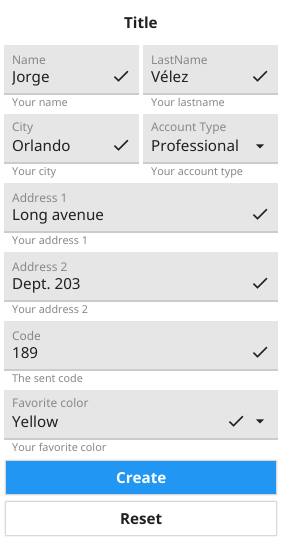
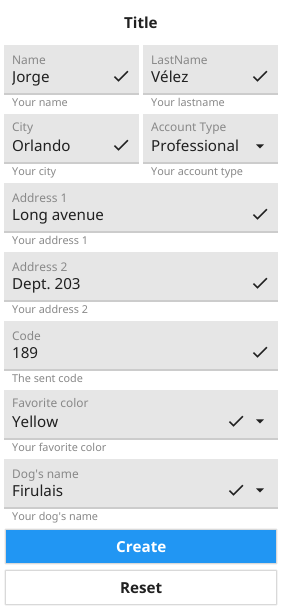
upgrade fyne version to the latest develop, fixed consistency when using empty validator, added and updated tests

diff --git a/swid/select_entry_form_field_test.go b/swid/select_entry_form_field_test.go
@@ -7,7 +7,9 @@ import (
 	"fyne.io/fyne/v2"
 	"fyne.io/fyne/v2/test"
 	"fyne.io/fyne/v2/theme"
+	"github.com/fpabl0/sparky-go/svalid"
 	"github.com/stretchr/testify/assert"
+	"github.com/stretchr/testify/require"
 )
 
 func TestSelectEntryFormField_EmptyValidator(t *testing.T) {
@@ -24,16 +26,21 @@ func TestSelectEntryFormField_EmptyValidator(t *testing.T) {
 	defer w.Close()
 	w.Resize(fyne.NewSize(120, 80))
 
-	test.AssertImageMatches(t, "select_entry_form_field/empty_validator_initial.png", w.Canvas().Capture())
+	for i := 0; i < 2; i++ {
+		test.AssertImageMatches(t, "select_entry_form_field/empty_validator_initial.png", w.Canvas().Capture())
 
-	w.Canvas().Focus(tf.selectEntryField)
+		w.Canvas().Focus(tf.selectEntryField)
 
-	test.AssertImageMatches(t, "select_entry_form_field/empty_validator_focused.png", w.Canvas().Capture())
+		test.AssertImageMatches(t, "select_entry_form_field/empty_validator_focused.png", w.Canvas().Capture())
 
-	w.Canvas().Focus(nil)
+		w.Canvas().Focus(nil)
 
-	// TODO this needs to be updated when Fyne fixes this (see the underline color and no icon)
-	test.AssertImageMatches(t, "select_entry_form_field/empty_validator_unfocused.png", w.Canvas().Capture())
+		test.AssertImageMatches(t, "select_entry_form_field/empty_validator_unfocused.png", w.Canvas().Capture())
+
+		// same sequence should be repeated if we reset the select entry form field.
+		tf.Reset()
+	}
+
 }
 
 func TestSelectEntryFormField_Validation(t *testing.T) {
@@ -323,4 +330,23 @@ func TestSelectEntryFormField_DisableInvalid(t *testing.T) {
 		assert.True(t, tf.Disabled())
 		test.AssertImageMatches(t, "select_entry_form_field/disable_invalid_notempty.png", w.Canvas().Capture())
 	})
+}
+
+func TestSelectEntryFormField_EmptyValidatorReset(t *testing.T) {
+	tf := NewSelectEntryFormField("Name", "", []string{"Peter", "Andrea"})
+	tf.Validator = svalid.NotEmpty()
+	tf.Placeholder = "Your name"
+
+	test.WidgetRenderer(tf) // force renderer creation
+
+	require.NotNil(t, tf.validationError)
+	emptyErr := tf.validationError
+
+	tf.SetText("Peter")
+	assert.Nil(t, tf.validationError)
+
+	tf.Reset()
+	// the validation error should not be changed
+	assert.NotNil(t, tf.validationError)
+	assert.Equal(t, emptyErr, tf.validationError)
 }

diff --git a/swid/text_form_field_test.go b/swid/text_form_field_test.go
@@ -7,7 +7,9 @@ import (
 	"fyne.io/fyne/v2"
 	"fyne.io/fyne/v2/test"
 	"fyne.io/fyne/v2/theme"
+	"github.com/fpabl0/sparky-go/svalid"
 	"github.com/stretchr/testify/assert"
+	"github.com/stretchr/testify/require"
 )
 
 func TestTextFormField_EmptyValidator(t *testing.T) {
@@ -21,18 +23,23 @@ func TestTextFormField_EmptyValidator(t *testing.T) {
 	}
 
 	w := test.NewWindow(tf)
+	w.Resize(fyne.NewSize(100, 80))
 	defer w.Close()
 
-	test.AssertImageMatches(t, "text_form_field/empty_validator_initial.png", w.Canvas().Capture())
+	for i := 0; i < 2; i++ {
+		test.AssertImageMatches(t, "text_form_field/empty_validator_initial.png", w.Canvas().Capture())
 
-	w.Canvas().Focus(tf.textField)
+		w.Canvas().Focus(tf.textField)
 
-	test.AssertImageMatches(t, "text_form_field/empty_validator_focused.png", w.Canvas().Capture())
+		test.AssertImageMatches(t, "text_form_field/empty_validator_focused.png", w.Canvas().Capture())
 
-	w.Canvas().Focus(nil)
+		w.Canvas().Focus(nil)
 
-	// TODO this needs to be updated when Fyne fixes this (see the underline color and no icon)
-	test.AssertImageMatches(t, "text_form_field/empty_validator_unfocused.png", w.Canvas().Capture())
+		test.AssertImageMatches(t, "text_form_field/empty_validator_unfocused.png", w.Canvas().Capture())
+
+		// same sequence should be repeated if we reset the text form field.
+		tf.Reset()
+	}
 }
 
 func TestTextFormField_Validation(t *testing.T) {
@@ -322,4 +329,23 @@ func TestTextFormField_DisableInvalid(t *testing.T) {
 		assert.True(t, tf.Disabled())
 		test.AssertImageMatches(t, "text_form_field/disable_invalid_notempty.png", w.Canvas().Capture())
 	})
+}
+
+func TestTextFormField_EmptyValidatorReset(t *testing.T) {
+	tf := NewTextFormField("Name", "")
+	tf.Validator = svalid.NotEmpty()
+	tf.Placeholder = "Your name"
+
+	test.WidgetRenderer(tf) // force renderer creation
+
+	require.NotNil(t, tf.validationError)
+	emptyErr := tf.validationError
+
+	tf.SetText("Peter")
+	assert.Nil(t, tf.validationError)
+
+	tf.Reset()
+	// the validation error should not be changed
+	assert.NotNil(t, tf.validationError)
+	assert.Equal(t, emptyErr, tf.validationError)
 }

diff --git a/swid/text_form_field.go b/swid/text_form_field.go
@@ -19,9 +19,10 @@ type TextFormField struct {
 	OnChanged func(s string)
 	OnSaved   func(s string)
 
-	textField       *TextField
-	initialText     string
-	isPasswordField bool
+	textField        *TextField
+	initialText      string
+	isPasswordField  bool
+	resetOverrideErr bool
 }
 
 // NewTextFormField creates a new special text field for Forms.
@@ -85,6 +86,9 @@ func (t *TextFormField) SetText(text string) {
 func (t *TextFormField) Reset() {
 	t.dirty = false
 	t.SetText(t.initialText)
+	t.resetOverrideErr = true
+	t.textField.SetValidationError(nil)
+	t.resetOverrideErr = false
 	t.didChange()
 }
 
@@ -137,10 +141,20 @@ func (t *TextFormField) setupTextField() {
 			t.Refresh()
 		}
 	}
-	t.textField.onFocusChanged = func(bool) {
+	t.textField.onFocusChanged = func(focused bool) {
+		if focused && !t.dirty {
+			// handle special case to validate automatically a field
+			// after a Reset call
+			t.Validate()
+		}
 		t.Refresh()
 	}
 	t.textField.SetOnValidationChanged(func(e error) {
+		// avoid overriding the validationError when we force it to nil by calling
+		// Reset.
+		if t.resetOverrideErr {
+			return
+		}
 		t.validationError = e
 		// REVIEW
 		// to notify form the validation change in case of manual validation

diff --git a/swid/select_entry_form_field.go b/swid/select_entry_form_field.go
@@ -18,6 +18,7 @@ type SelectEntryFormField struct {
 
 	selectEntryField *SelectEntryField
 	initialText      string
+	resetOverrideErr bool
 }
 
 // NewSelectEntryFormField creates a new select entry form field.
@@ -57,6 +58,9 @@ func (s *SelectEntryFormField) SetOptions(options []string) {
 func (s *SelectEntryFormField) Reset() {
 	s.dirty = false
 	s.SetText(s.initialText)
+	s.resetOverrideErr = true
+	s.selectEntryField.SetValidationError(nil)
+	s.resetOverrideErr = false
 	s.didChange()
 }
 
@@ -109,10 +113,20 @@ func (s *SelectEntryFormField) setupSelectEntryField(options []string) {
 			s.Refresh()
 		}
 	}
-	s.selectEntryField.onFocusChanged = func(bool) {
+	s.selectEntryField.onFocusChanged = func(focused bool) {
+		if focused && !s.dirty {
+			// handle special case to validate automatically a field
+			// after a Reset call
+			s.Validate()
+		}
 		s.Refresh()
 	}
 	s.selectEntryField.SetOnValidationChanged(func(e error) {
+		// avoid overriding the validationError when we force it to nil by calling
+		// Reset.
+		if s.resetOverrideErr {
+			return
+		}
 		s.validationError = e
 		// REVIEW
 		// to notify form the validation change in case of manual validation

diff --git a/swid/form_test.go b/swid/form_test.go
@@ -65,6 +65,10 @@ func TestCustomForm(t *testing.T) {
 	}
 	favoriteColor.Hint = "Your favorite color"
 
+	dogName := NewSelectEntryFormField("Dog's name", "", []string{"Pelusa", "Firulais"})
+	dogName.Validator = svalid.NotEmpty()
+	dogName.Hint = "Your dog's name"
+
 	f := NewCustomForm(container.NewVBox(
 		title,
 		container.NewGridWithColumns(2,
@@ -75,6 +79,7 @@ func TestCustomForm(t *testing.T) {
 		address2,
 		code,
 		favoriteColor,
+		dogName,
 	))
 
 	submitted := false
@@ -94,6 +99,8 @@ func TestCustomForm(t *testing.T) {
 	address2.SetText("")  // put empty to show the error
 	code.SetText("1")
 	favoriteColor.SetText("white")
+	dogName.SetText("a") // just to make it dirty
+	dogName.SetText("")  // put empty to show the error
 
 	assert.False(t, f.IsValid())
 	test.Tap(submitButton)
@@ -108,6 +115,7 @@ func TestCustomForm(t *testing.T) {
 	address2.SetText("Dept. 203")
 	code.SetText("189")
 	favoriteColor.SetText("Yellow")
+	dogName.SetText("Firulais")
 
 	assert.True(t, f.IsValid())
 	test.AssertImageMatches(t, "form/custom_form_valid.png", w.Canvas().Capture())

diff --git a/swid/select_field.go b/swid/select_field.go
@@ -74,6 +74,15 @@ func (s *SelectField) MouseOut() {
 	}
 }
 
+// Tapped overrides widget.Select method.
+func (s *SelectField) Tapped(ev *fyne.PointEvent) {
+	if s.Disabled() {
+		return
+	}
+	fyne.CurrentApp().Driver().CanvasForObject(s).Focus(s)
+	s.Select.Tapped(ev)
+}
+
 // ===============================================================
 // Renderer
 // ===============================================================
